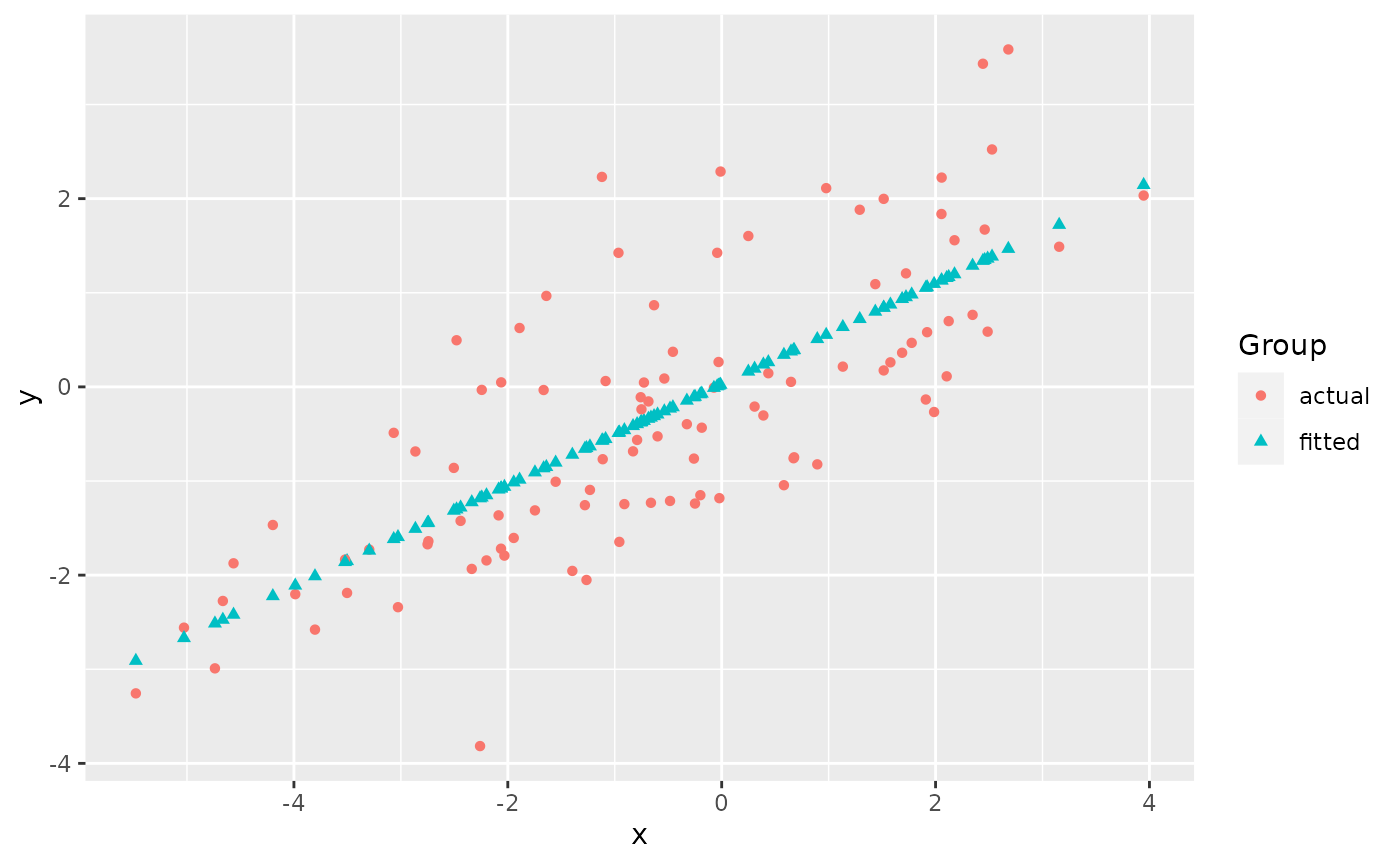
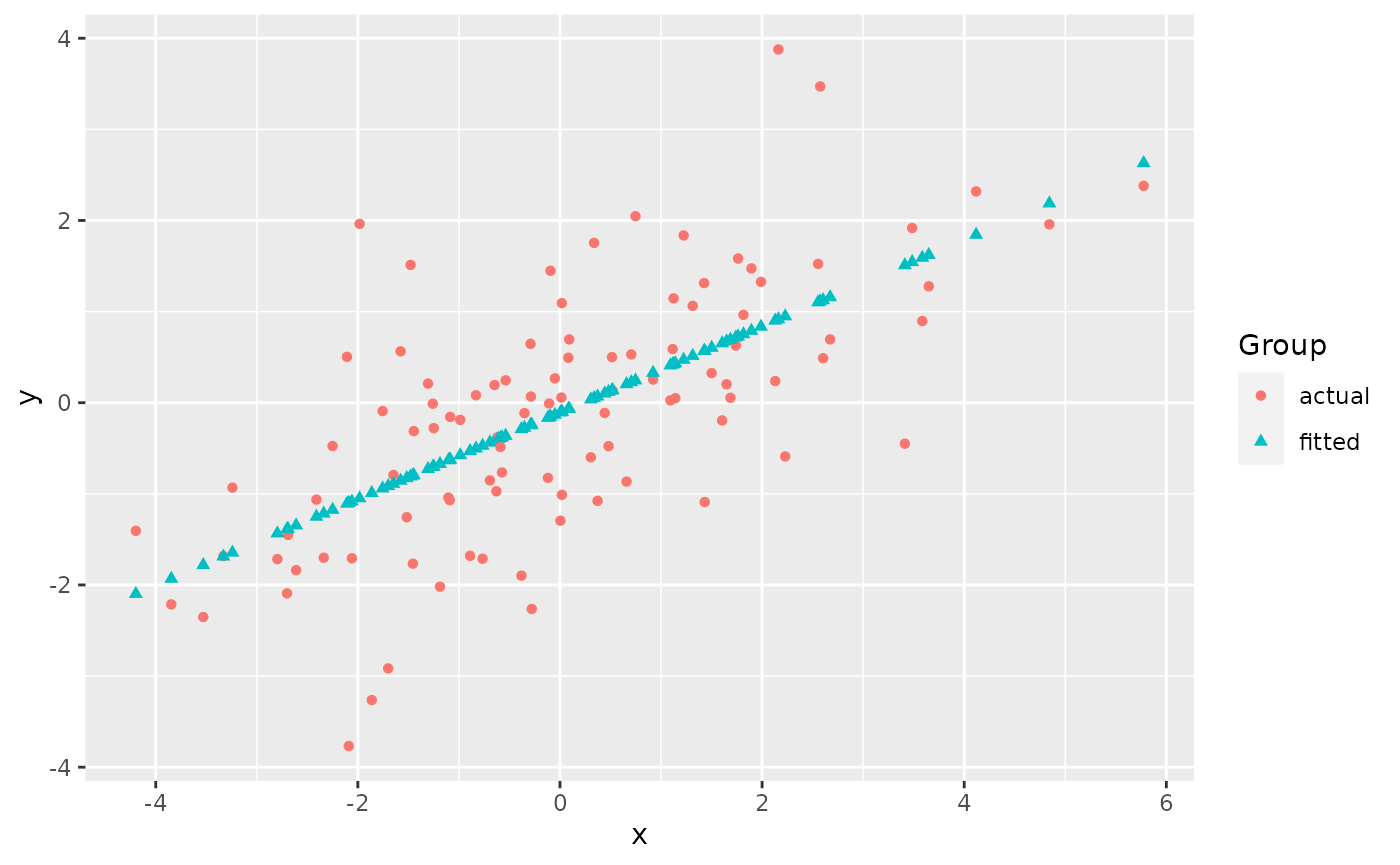
Built site for ggmatplot: 0.1.0.9000@1258f1f

diff --git a/articles/ggmatplot.html b/articles/ggmatplot.html
@@ -103,7 +103,7 @@
 <span class="va">x</span> <span class="op">&lt;-</span> <span class="fu"><a href="https://rdrr.io/r/base/c.html" class="external-link">c</a></span><span class="op">(</span><span class="fu"><a href="https://rdrr.io/r/stats/Normal.html" class="external-link">rnorm</a></span><span class="op">(</span><span class="fl">100</span>, sd <span class="op">=</span> <span class="fl">2</span><span class="op">)</span><span class="op">)</span>
 
 <span class="fu"><a href="https://rdrr.io/r/utils/head.html" class="external-link">head</a></span><span class="op">(</span><span class="va">x</span><span class="op">)</span>
-<span class="co">#&gt; [1] -1.55260698 -2.47914605 -3.29566954 -4.19715383  0.64818377 -0.02155941</span>
+<span class="co">#&gt; [1]  1.76290927 -0.62932329  0.01867324  0.92093976  0.52109208 -1.10412992</span>
 
 <span class="co"># matrix z</span>
 <span class="va">y</span> <span class="op">&lt;-</span> <span class="va">x</span> <span class="op">*</span> <span class="fl">0.5</span> <span class="op">+</span> <span class="fu"><a href="https://rdrr.io/r/stats/Normal.html" class="external-link">rnorm</a></span><span class="op">(</span><span class="fl">100</span>, sd <span class="op">=</span> <span class="fl">1</span><span class="op">)</span>
@@ -113,12 +113,12 @@
 
 <span class="fu"><a href="https://rdrr.io/r/utils/head.html" class="external-link">head</a></span><span class="op">(</span><span class="va">z</span><span class="op">)</span>
 <span class="co">#&gt;       actual      fitted</span>
-<span class="co">#&gt; 1 -1.0078294 -0.80420995</span>
-<span class="co">#&gt; 2  0.4955122 -1.30129334</span>
-<span class="co">#&gt; 3 -1.7287388 -1.73935393</span>
-<span class="co">#&gt; 4 -1.4672783 -2.22299555</span>
-<span class="co">#&gt; 5  0.0532506  0.37650280</span>
-<span class="co">#&gt; 6 -1.1823233  0.01718908</span></code></pre></div>
+<span class="co">#&gt; 1  1.5822049  0.72736748</span>
+<span class="co">#&gt; 2 -0.9717222 -0.40670399</span>
+<span class="co">#&gt; 3  1.0933922 -0.09951212</span>
+<span class="co">#&gt; 4  0.2544529  0.32822000</span>
+<span class="co">#&gt; 5  0.1313786  0.13866659</span>
+<span class="co">#&gt; 6 -1.0411605 -0.63179274</span></code></pre></div>
 <p><code>ggmatplot</code> plots vector <code>x</code> against each column of matrix <code>z</code> using the default <code>plot_type = "point"</code>. This will be represented on the resulting plot as two groups, identified using different shapes and colors.</p>
 <div class="sourceCode" id="cb2"><pre class="downlit sourceCode r">
 <code class="sourceCode R"><span class="kw"><a href="https://rdrr.io/r/base/library.html" class="external-link">library</a></span><span class="op">(</span><span class="va"><a href="https://github.com/xuan-liang/ggmatplot" class="external-link">ggmatplot</a></span><span class="op">)</span>
